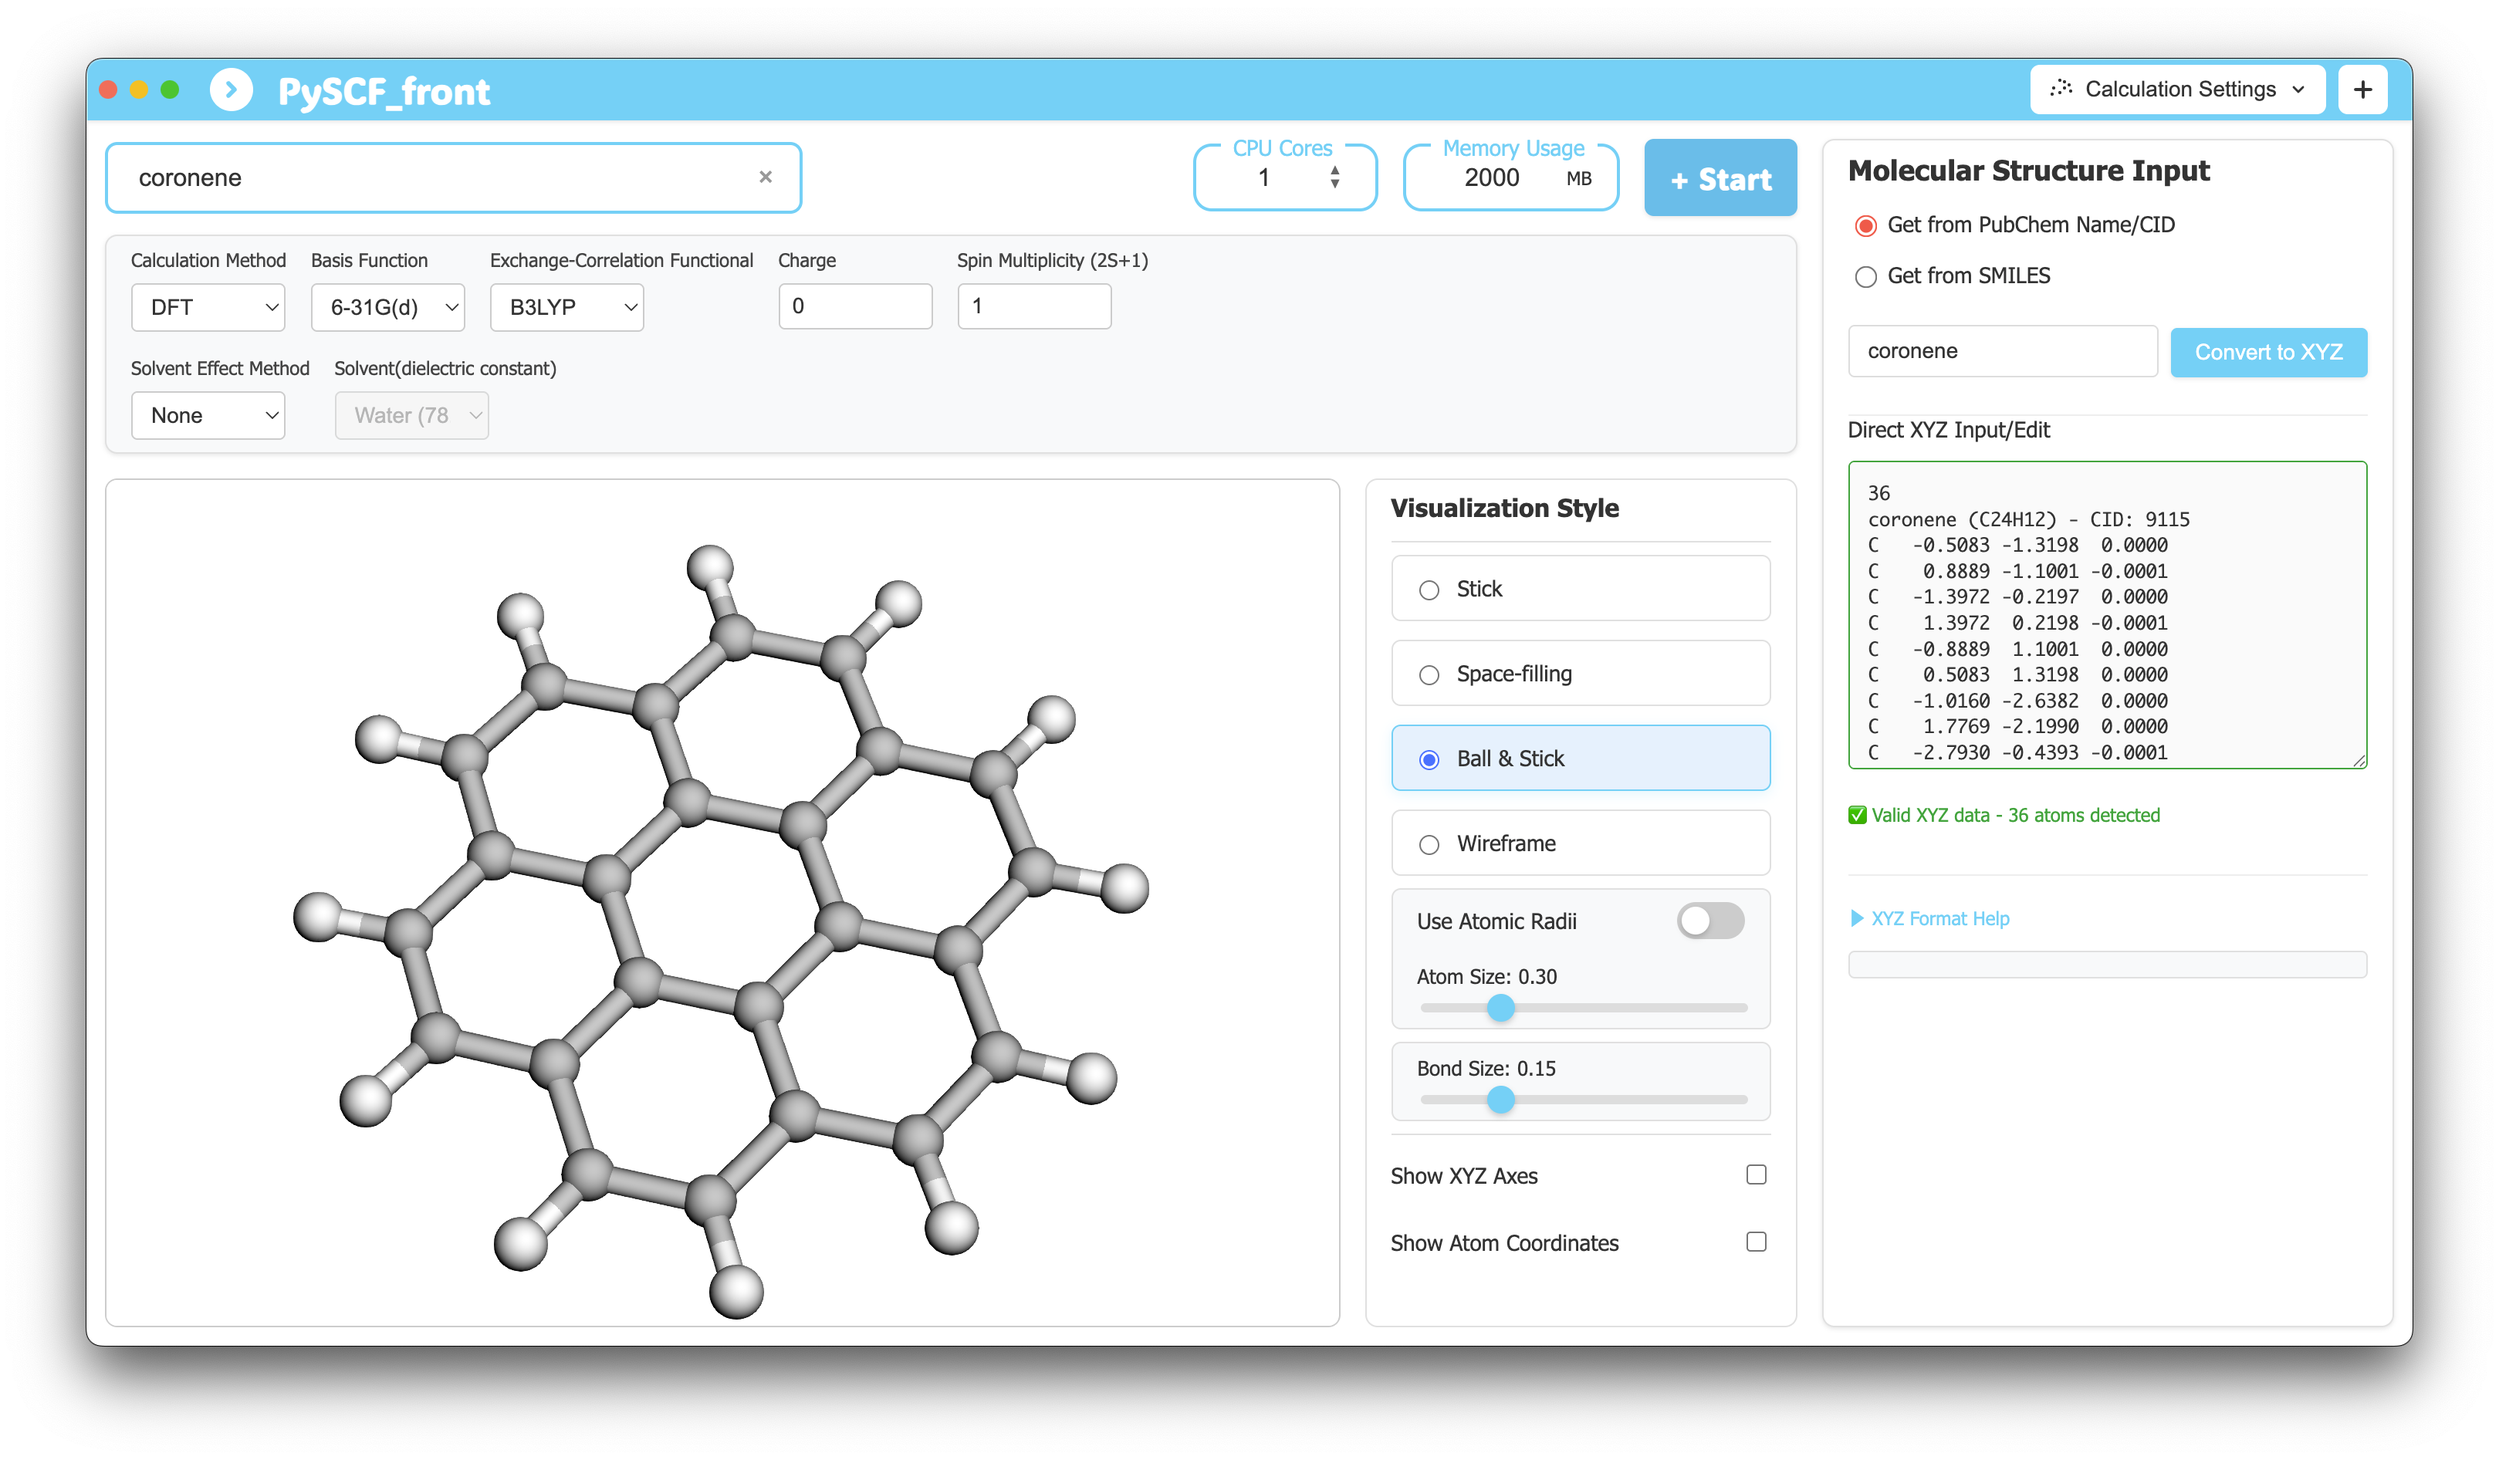
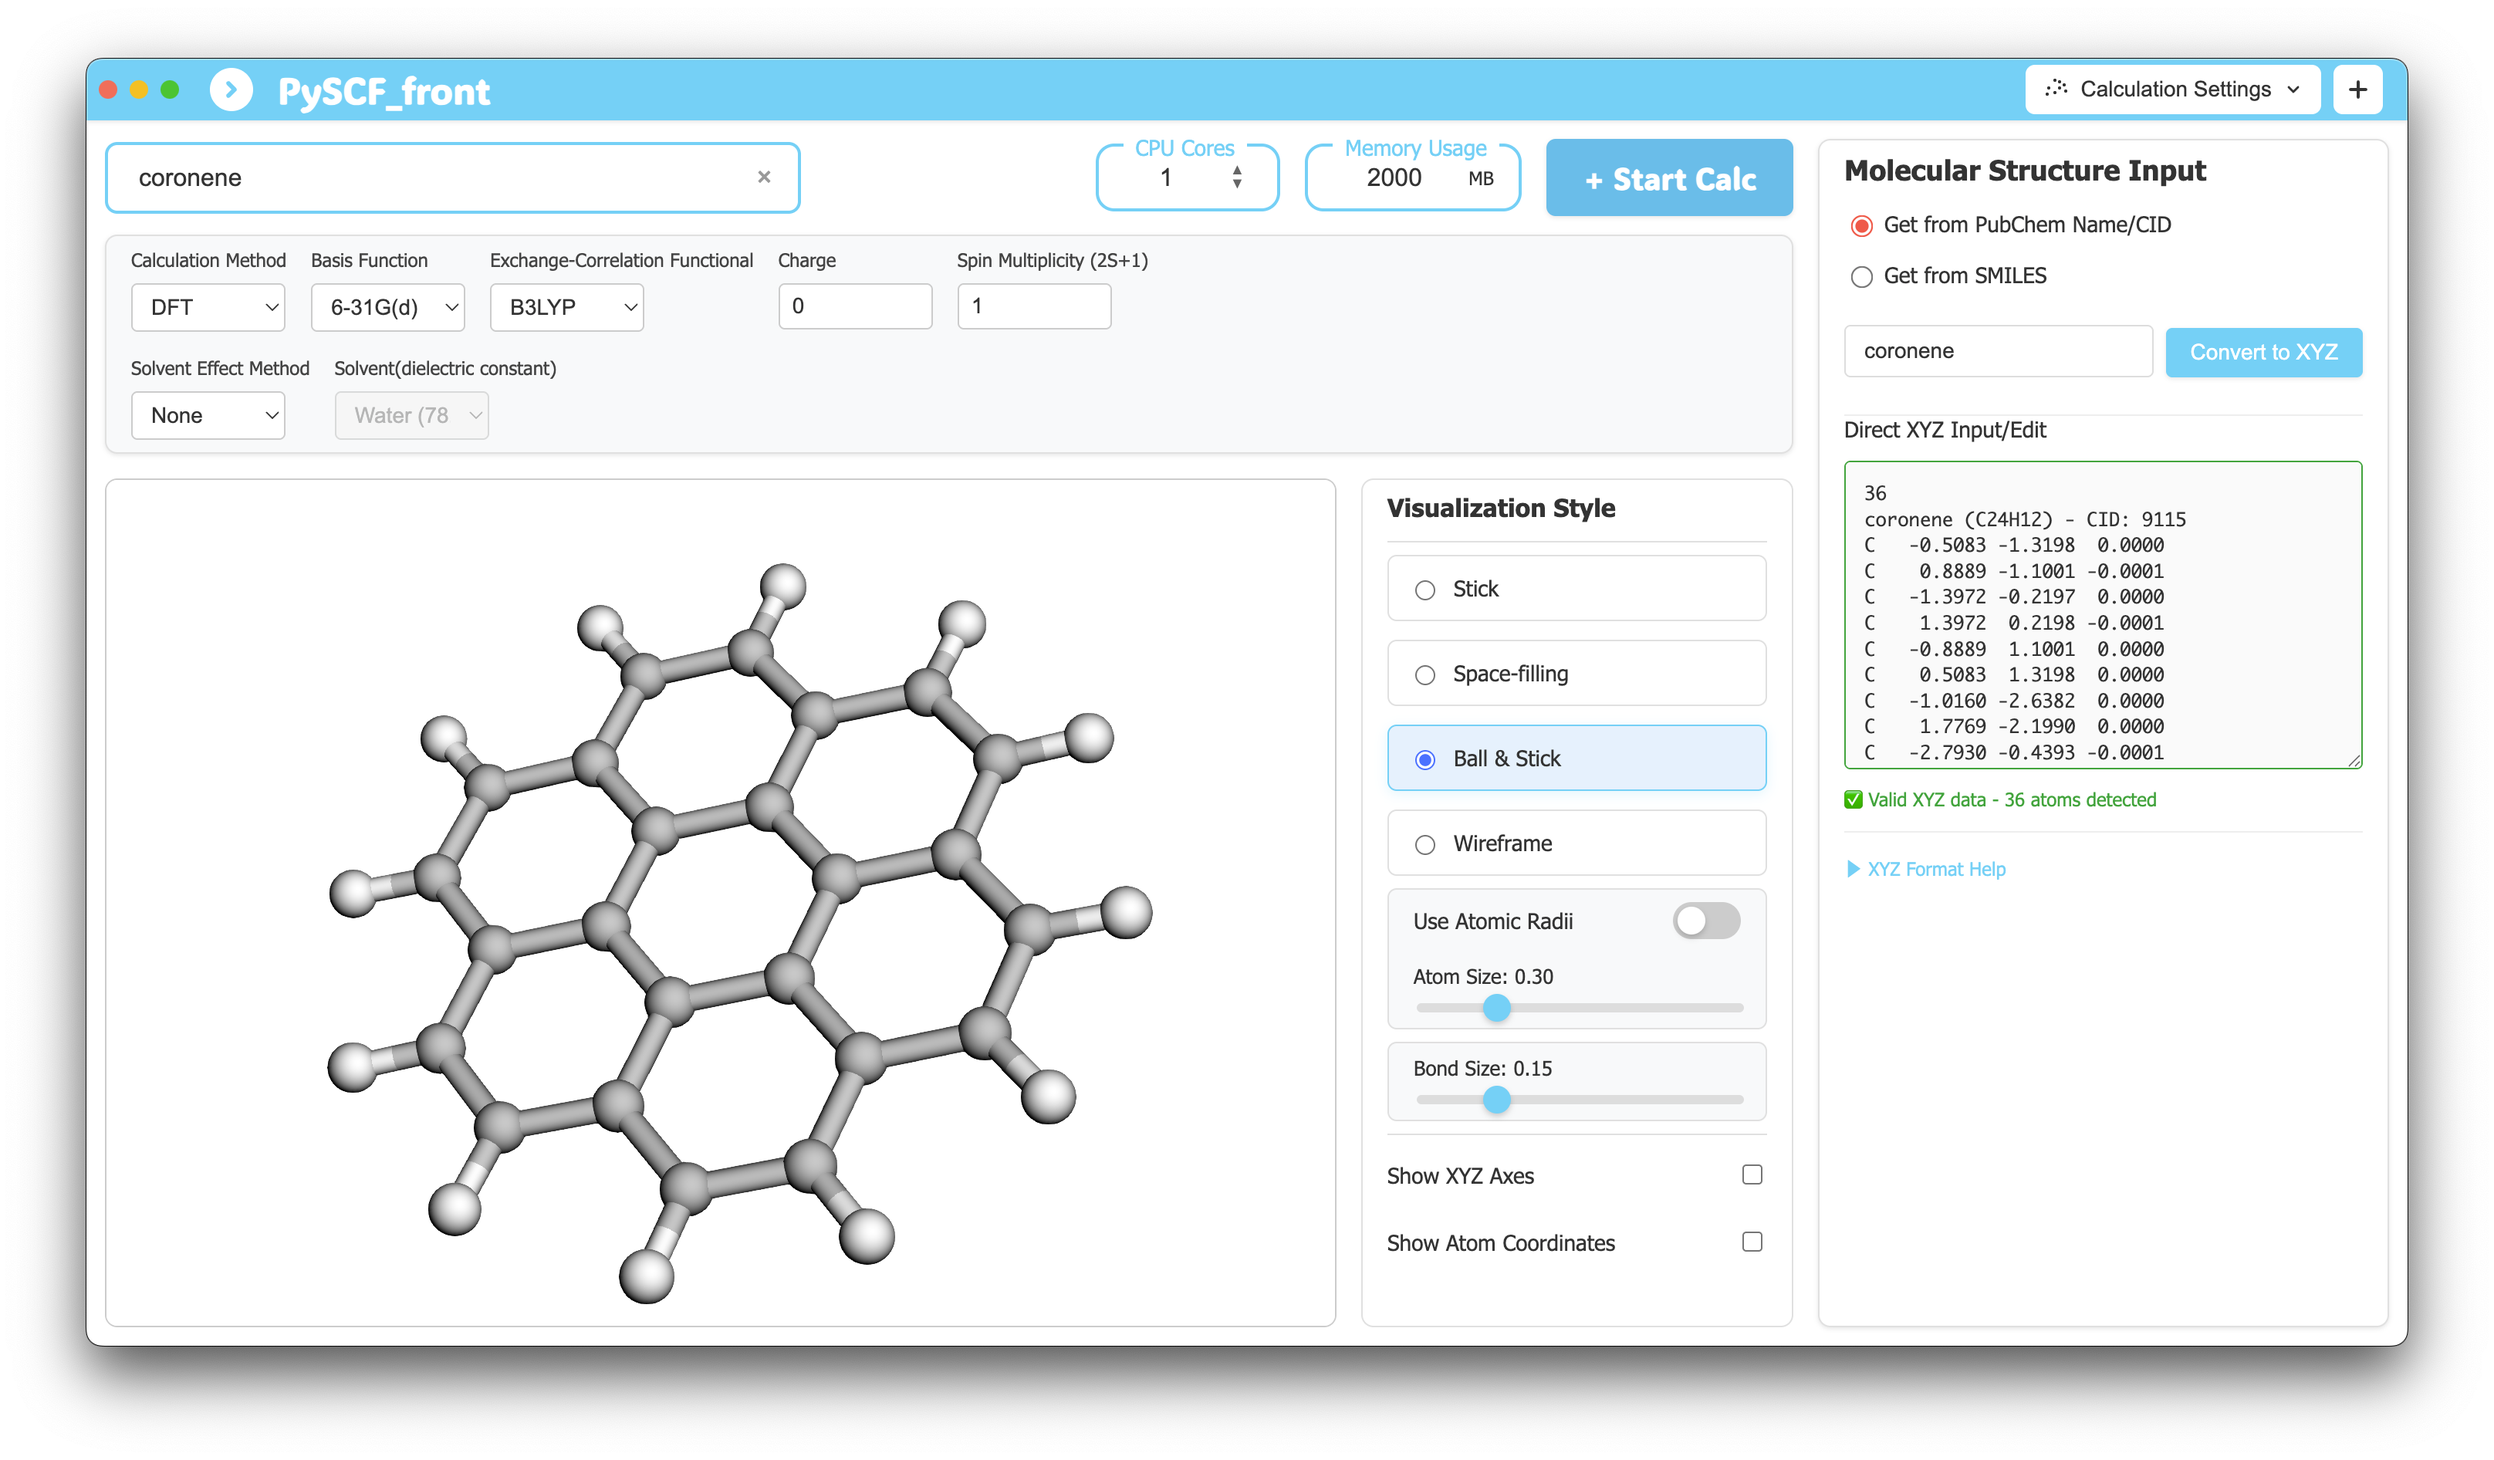
readmeの写真を変更。CSSを調整

diff --git a/src/web/components/XYZInput.module.css b/src/web/components/XYZInput.module.css
@@ -41,8 +41,6 @@
 .xyzValidationStatus {
   display: flex;
   align-items: center;
-  min-height: 20px;
-  margin-top: 8px;
 }
 
 .validationMessage {
@@ -68,8 +66,7 @@
 /* Format Help Section */
 .xyzFormatHelp {
   border-top: 1px solid #eee;
-  padding-top: 16px;
-  margin-top: 16px;
+  padding-top: 12px;
 }
 
 .formatHelpLink {
@@ -90,9 +87,6 @@
 }
 
 .formatHelpDetails {
-  margin-top: 12px;
-  border: 1px solid #e0e0e0;
-  border-radius: 4px;
   background: #f8f9fa;
 }
 
@@ -112,11 +106,10 @@
 }
 
 .formatHelpSummary {
-  padding: 8px 12px;
-  font-weight: 500;
+  padding: 0 12px;
+  font-weight: 200;
   cursor: pointer;
   list-style: none;
-  color: #333;
   user-select: none;
 }
 
@@ -129,8 +122,8 @@
 }
 
 .formatHelpContent {
-  padding: 12px;
-  border-top: 1px solid #e0e0e0;
+  padding: 0 12px;
+  font-size: small;
   background: white;
 }
 
@@ -141,9 +134,7 @@
 }
 
 .formatHelpContent p {
-  margin: 8px 0;
   font-size: 12px;
-  line-height: 1.4;
   color: #666;
 }
 
@@ -151,7 +142,6 @@
   margin: 8px 0;
   padding-left: 20px;
   font-size: 12px;
-  color: #666;
 }
 
 .formatHelpContent li {
@@ -162,8 +152,9 @@
   background: #f5f5f5;
   border: 1px solid #e0e0e0;
   border-radius: 4px;
-  padding: 12px;
-  margin: 12px 0;
+  padding: 4px 12px;
+  margin-top: 12px;
+  margin-bottom: 0;
   font-family: 'Monaco', 'Menlo', 'Ubuntu Mono', monospace;
   font-size: 11px;
   line-height: 1.3;

diff --git a/src/web/pages/CalculationSettingsPage.tsx b/src/web/pages/CalculationSettingsPage.tsx
@@ -487,7 +487,7 @@ export const CalculationSettingsPage = ({
       case 'error':
         return 'Error';
       default:
-        return '+ Start';
+        return '+ Start Calc';
     }
   };
 

diff --git a/src/web/pages/CalculationSettingsPage.module.css b/src/web/pages/CalculationSettingsPage.module.css
@@ -192,6 +192,8 @@
   background: #45c1e8;
   color: white;
   border: none;
+  width: 10vw;
+  min-width: 160px;
   padding: 12px 16px;
   border-radius: 6px;
   font-size: 20px;
